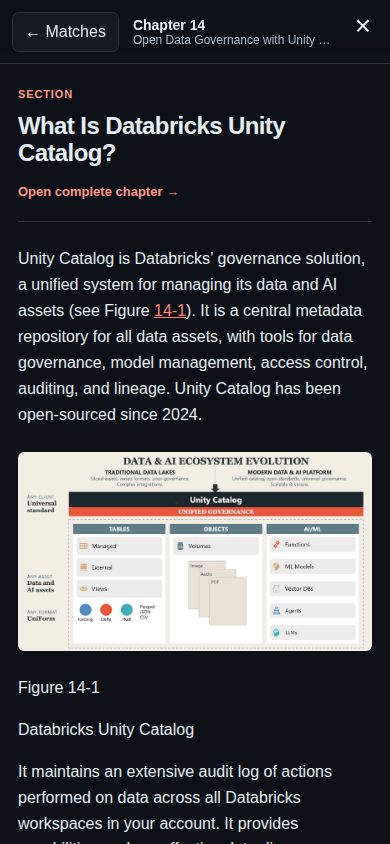
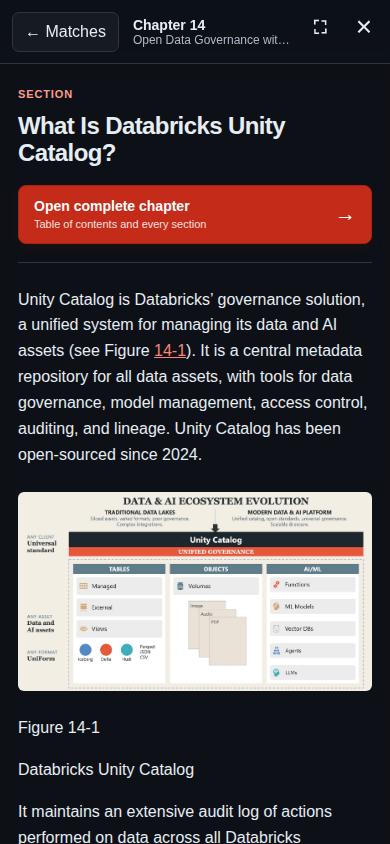
Add full screen book reading mode

diff --git a/integration/addon-host.js b/integration/addon-host.js
@@ -2,6 +2,7 @@
   const script=document.currentScript;
   const base=new URL(".",script.src);
   const manifestUrl=new URL("addons/manifest.json",base);
+  const officialIndexUrl=new URL("resources/links.json",base);
   const icon='<svg viewBox="0 0 24 24" aria-hidden="true"><path d="M4 5.5A2.5 2.5 0 0 1 6.5 3H11v17H6.5A2.5 2.5 0 0 0 4 22V5.5Z"/><path d="M20 5.5A2.5 2.5 0 0 0 17.5 3H13v17h4.5A2.5 2.5 0 0 1 20 22V5.5Z"/></svg>';
   const aliases={
     "unified governance":["unity catalog","data governance"],"open governance":["unity catalog","data governance"],
@@ -12,7 +13,7 @@
     "cloud services integrations":["security first","production grade databricks apps"]
   };
   const stop=new Set(["about","architecture","business","cloud","data","databricks","details","every","external","platform","services","system","what","with"]);
-  let current=null,currentFrame=null,currentAddonId=null,opener=null,contextAddon=null,book=null,currentContext=null,currentMatches=[];
+  let current=null,currentFrame=null,currentAddonId=null,opener=null,contextAddon=null,book=null,officialIndex=null,currentContext=null,currentMatches=[],inertSiblings=[];
   const savedStateKey="databricks-addon-state-v1";
 
   const normalize=value=>(value||"").toLowerCase().replace(/&/g," and ").replace(/[^a-z0-9]+/g," ").trim();
@@ -34,20 +35,33 @@
     const seen=new Set();return matches.filter(match=>{const key=match.chapter+"#"+match.section;if(seen.has(key))return false;seen.add(key);return true}).slice(0,3);
   }
 
+  function officialResources(context){
+    if(!officialIndex||!context)return [];
+    const names=[context.name,...(aliases[normalize(context.name)]||[])].map(normalize);let record=null;
+    for(const [name,value] of Object.entries(officialIndex)){if(names.includes(normalize(name))){record=value;break}}
+    if(!record)return [];
+    const resources=[];const add=(label,title,value)=>{if(!value)return;let url;try{url=new URL(value,location.origin)}catch{return}const host=url.hostname.replace(/^www\./,"");if(!["databricks.com","docs.databricks.com","youtube.com","youtu.be"].some(domain=>host===domain||host.endsWith("."+domain)))return;resources.push({label,title,url:url.href})};
+    if(record.doc)add("Documentation","Official documentation",/^https?:/.test(record.doc)?record.doc:"https://docs.databricks.com/aws/en/"+record.doc.replace(/^\/+/,""));
+    add("Product","Official product page",record.site);if(record.videos&&record.videos[0])add("Video",record.videos[0].t,"https://www.youtube.com/watch?v="+encodeURIComponent(record.videos[0].id));
+    return resources.slice(0,3);
+  }
+
   function close(){
-    if(!current)return;current.remove();current=null;currentFrame=null;currentAddonId=null;sessionStorage.removeItem(savedStateKey);document.body.classList.remove("addon-open");
+    if(!current)return;if(current.classList.contains("is-fullscreen"))setFullscreen(false);current.remove();current=null;currentFrame=null;currentAddonId=null;sessionStorage.removeItem(savedStateKey);document.body.classList.remove("addon-open");
     const params=new URLSearchParams(location.search);for(const key of ["addon","chapter","section","bookView"])params.delete(key);history.replaceState(history.state,"",location.pathname+(params.size?"?"+params.toString():"")+location.hash);if(opener)opener.focus();
   }
 
   function sendContext(){if(currentFrame&&currentContext)currentFrame.contentWindow.postMessage({type:"databricks-addon-context",context:currentContext,matches:currentMatches},location.origin)}
+  function setFullscreen(enabled){if(!current)return;current.classList.toggle("is-fullscreen",enabled);if(enabled){current.dataset.previousRole=current.getAttribute("role")||"complementary";current.setAttribute("role","dialog");current.setAttribute("aria-modal","true");inertSiblings=[...document.body.children].filter(node=>node!==current&&!node.inert);for(const node of inertSiblings)node.inert=true}else{current.setAttribute("role",current.dataset.previousRole||"complementary");current.removeAttribute("aria-modal");for(const node of inertSiblings)node.inert=false;inertSiblings=[]}const button=current.querySelector(".addon-fullscreen");if(!button)return;button.setAttribute("aria-pressed",String(enabled));button.setAttribute("aria-label",enabled?"Exit full screen reading mode":"Enter full screen reading mode");button.title=button.getAttribute("aria-label");button.querySelector(".addon-fullscreen-label").textContent=enabled?"Exit full screen":"Full screen";button.querySelector(".addon-fullscreen-icon").textContent=enabled?"⊡":"⛶"}
+  function handleEscape(){if(current&&current.classList.contains("is-fullscreen")){setFullscreen(false);return}close()}
   function open(addon,button,match,view="section"){
     close();const entry=sameOrigin(addon.entry);if(!entry)return;const params=new URLSearchParams(location.search);params.set("addon",addon.id);
     if(match){params.set("chapter",match.chapter);entry.searchParams.set("chapter",match.chapter);params.set("bookView",view);entry.searchParams.set("view",view);if(view==="section"){params.set("section",match.section);entry.searchParams.set("section",match.section)}else params.delete("section")}
     history.replaceState(history.state,"",location.pathname+"?"+params.toString()+location.hash);entry.searchParams.set("embedded","1");entry.searchParams.set("theme",document.body.classList.contains("theme-dark")?"dark":"light");
     const shell=document.createElement("aside");shell.className="addon-shell";shell.setAttribute("role","complementary");shell.setAttribute("aria-label",addon.title);
-    const head=document.createElement("header");const title=document.createElement("strong");title.textContent="From the book";const closeButton=document.createElement("button");closeButton.type="button";closeButton.className="addon-close";closeButton.setAttribute("aria-label","Close "+addon.title);closeButton.textContent="×";closeButton.addEventListener("click",close);
-    const frame=document.createElement("iframe");frame.src=entry.href;frame.title=addon.title;frame.loading="eager";frame.addEventListener("load",()=>{frame.contentWindow.addEventListener("keydown",event=>{if(event.key==="Escape")close()});sendContext()});
-    head.append(title,closeButton);shell.append(head,frame);document.body.append(shell);current=shell;currentFrame=frame;currentAddonId=addon.id;opener=button;sessionStorage.setItem(savedStateKey,JSON.stringify({addon:addon.id,view:match?view:"matches",chapter:match?match.chapter:"",section:match&&view==="section"?match.section:""}));document.body.classList.add("addon-open");closeButton.focus();
+    const head=document.createElement("header");const title=document.createElement("strong");title.textContent="From the book";const fullscreenButton=document.createElement("button");fullscreenButton.type="button";fullscreenButton.className="addon-fullscreen";fullscreenButton.setAttribute("aria-pressed","false");fullscreenButton.setAttribute("aria-label","Enter full screen reading mode");fullscreenButton.title="Enter full screen reading mode";fullscreenButton.innerHTML='<span class="addon-fullscreen-icon" aria-hidden="true">⛶</span><span class="addon-fullscreen-label">Full screen</span>';fullscreenButton.addEventListener("click",()=>setFullscreen(!shell.classList.contains("is-fullscreen")));const closeButton=document.createElement("button");closeButton.type="button";closeButton.className="addon-close";closeButton.setAttribute("aria-label","Close "+addon.title);closeButton.textContent="×";closeButton.addEventListener("click",close);
+    const frame=document.createElement("iframe");frame.src=entry.href;frame.title=addon.title;frame.loading="eager";frame.addEventListener("load",sendContext);
+    head.append(title,fullscreenButton,closeButton);shell.append(head,frame);document.body.append(shell);current=shell;currentFrame=frame;currentAddonId=addon.id;opener=button;sessionStorage.setItem(savedStateKey,JSON.stringify({addon:addon.id,view:match?view:"matches",chapter:match?match.chapter:"",section:match&&view==="section"?match.section:""}));document.body.classList.add("addon-open");closeButton.focus();
   }
 
   function renderContext(){
@@ -61,22 +75,23 @@
     for(const [index,match] of currentMatches.entries()){
       if(index===1){const more=document.createElement("p");more.className="addon-context-more";more.textContent="More book matches";card.append(more)}
       const item=document.createElement("article");const headingId="addon-match-"+index+"-"+match.section.replace(/[^a-z0-9_-]/gi,"-");item.className="addon-context-link"+(index?" compact":"");item.setAttribute("aria-labelledby",headingId);item.innerHTML='<h5 id="'+headingId+'"></h5><span></span>'+(index?'':'<p></p>')+'<div class="addon-context-actions"></div>';item.querySelector("h5").textContent=match.sectionTitle;item.querySelector("span").textContent=match.chapterTitle;if(!index)item.querySelector("p").textContent=match.excerpt;
-      const actions=item.querySelector(".addon-context-actions");const sectionButton=document.createElement("button");sectionButton.type="button";sectionButton.textContent="Read section";sectionButton.setAttribute("aria-label","Read section: "+match.sectionTitle);sectionButton.addEventListener("click",event=>open(contextAddon,event.currentTarget,match,"section"));const chapterButton=document.createElement("button");chapterButton.type="button";chapterButton.className="secondary";chapterButton.textContent="Open chapter";chapterButton.setAttribute("aria-label","Open chapter: "+match.chapterTitle);chapterButton.addEventListener("click",event=>open(contextAddon,event.currentTarget,match,"chapter"));actions.append(sectionButton,chapterButton);card.append(item);
+      const actions=item.querySelector(".addon-context-actions");const sectionButton=document.createElement("button");sectionButton.type="button";sectionButton.textContent="Read section";sectionButton.setAttribute("aria-label","Read section: "+match.sectionTitle);sectionButton.addEventListener("click",event=>open(contextAddon,event.currentTarget,match,"section"));const chapterButton=document.createElement("button");chapterButton.type="button";chapterButton.className="secondary";chapterButton.textContent="Open complete chapter";chapterButton.setAttribute("aria-label","Open complete chapter: "+match.chapterTitle);chapterButton.addEventListener("click",event=>open(contextAddon,event.currentTarget,match,"chapter"));actions.append(sectionButton,chapterButton);card.append(item);
     }
+    const official=officialResources(context);if(official.length){const section=document.createElement("section");section.className="addon-official";const officialHeading=document.createElement("h5");officialHeading.textContent="Official Databricks resources";section.append(officialHeading);const links=document.createElement("div");for(const resource of official){const link=document.createElement("a");link.href=resource.url;link.target="_blank";link.rel="noopener";link.innerHTML="<span></span><strong></strong><b aria-hidden=\"true\">↗</b>";link.querySelector("span").textContent=resource.label;link.querySelector("strong").textContent=resource.title;links.append(link)}section.append(links);card.append(section)}
     body.prepend(card);sendContext();
   }
 
   function install(manifest){
     if(!manifest||manifest.schemaVersion!==1||!Array.isArray(manifest.addons))return;const slot=document.createElement("div");slot.className="addon-slot";const tools=document.querySelector("header.top .htools");(tools||document.body).append(slot);
     for(const addon of manifest.addons){if(!addon||!/^[-a-z0-9]+$/.test(addon.id||"")||!addon.label||!addon.title||!sameOrigin(addon.entry))continue;const button=document.createElement("button");button.type="button";button.className="hbtn addon-launcher";button.title=addon.title;button.innerHTML=icon+"<span></span>";button.querySelector("span").textContent=addon.label;button.addEventListener("click",()=>open(addon,button));slot.append(button);
-      if(addon.contextIndex&&sameOrigin(addon.contextIndex)){contextAddon=addon;fetch(sameOrigin(addon.contextIndex),{cache:"no-store"}).then(response=>response.json()).then(data=>{book=data;renderContext()}).catch(()=>{})}
+      if(addon.contextIndex&&sameOrigin(addon.contextIndex)){contextAddon=addon;Promise.all([fetch(sameOrigin(addon.contextIndex),{cache:"no-store"}).then(response=>response.json()),fetch(officialIndexUrl,{cache:"no-store"}).then(response=>response.ok?response.json():null).catch(()=>null)]).then(([bookData,officialData])=>{book=bookData;officialIndex=officialData;renderContext()}).catch(()=>{})}
       const locationParams=new URLSearchParams(location.search);let saved={};try{saved=JSON.parse(sessionStorage.getItem(savedStateKey)||"{}")||{}}catch{}const shouldRestore=locationParams.get("addon")===addon.id||saved.addon===addon.id;if(shouldRestore){const chapter=locationParams.get("chapter")||saved.chapter,section=locationParams.get("section")||saved.section,view=locationParams.get("bookView")||saved.view||(section?"section":"chapter");open(addon,button,chapter?{chapter,section}:null,view)}
     }
     if(!slot.childElementCount)slot.remove();
   }
 
-  document.addEventListener("keydown",event=>{if(event.key==="Escape"&&current)close()});
-  addEventListener("message",event=>{if(!currentFrame||event.origin!==location.origin||event.source!==currentFrame.contentWindow||!event.data)return;if(event.data.type==="databricks-addon-close")close();if(event.data.type==="databricks-addon-state"&&["matches","section","chapter"].includes(event.data.view)){const params=new URLSearchParams(location.search);for(const key of ["chapter","section","bookView"])params.delete(key);if(event.data.view!=="matches"&&event.data.chapter){params.set("chapter",event.data.chapter);params.set("bookView",event.data.view);if(event.data.view==="section"&&event.data.section)params.set("section",event.data.section)}sessionStorage.setItem(savedStateKey,JSON.stringify({addon:currentAddonId,view:event.data.view,chapter:event.data.chapter||"",section:event.data.section||""}));history.replaceState(history.state,"",location.pathname+"?"+params.toString()+location.hash)}});
+  document.addEventListener("keydown",event=>{if(event.key==="Escape"&&current)handleEscape()});
+  addEventListener("message",event=>{if(!currentFrame||event.origin!==location.origin||event.source!==currentFrame.contentWindow||!event.data)return;if(event.data.type==="databricks-addon-close")close();if(event.data.type==="databricks-addon-escape")handleEscape();if(event.data.type==="databricks-addon-state"&&["matches","section","chapter"].includes(event.data.view)){const params=new URLSearchParams(location.search);for(const key of ["chapter","section","bookView"])params.delete(key);if(event.data.view!=="matches"&&event.data.chapter){params.set("chapter",event.data.chapter);params.set("bookView",event.data.view);if(event.data.view==="section"&&event.data.section)params.set("section",event.data.section)}sessionStorage.setItem(savedStateKey,JSON.stringify({addon:currentAddonId,view:event.data.view,chapter:event.data.chapter||"",section:event.data.section||""}));history.replaceState(history.state,"",location.pathname+"?"+params.toString()+location.hash)}});
   let timer;new MutationObserver(()=>{clearTimeout(timer);timer=setTimeout(renderContext,0);if(currentFrame)currentFrame.contentWindow.postMessage({type:"databricks-addon-theme",theme:document.body.classList.contains("theme-dark")?"dark":"light"},location.origin)}).observe(document.body,{attributes:true,attributeFilter:["class"],childList:true,subtree:true});
   fetch(manifestUrl,{cache:"no-store"}).then(response=>response.ok&&/json/i.test(response.headers.get("content-type")||"")?response.json():null).then(install).catch(()=>{});
 })();

diff --git a/addon/reader/reader.css b/addon/reader/reader.css
@@ -1,3 +1,5 @@
 :root{font-family:Inter,-apple-system,BlinkMacSystemFont,"Segoe UI",sans-serif;color:#1b1f24;background:#fff;--accent:#c52b19;--line:#d8dee4;--muted:#59636e;--panel:#f6f8fa;--code:#f3f4f6}
 *{box-sizing:border-box}html{scroll-behavior:smooth;scroll-padding-top:82px}body{margin:0;min-height:100vh;background:inherit;color:inherit}button{font:inherit}.sr-only{position:absolute;width:1px;height:1px;padding:0;margin:-1px;overflow:hidden;clip:rect(0,0,0,0);white-space:nowrap;border:0}.reader-header{position:sticky;top:0;z-index:10;display:flex;align-items:center;gap:14px;min-height:64px;padding:10px 18px;border-bottom:1px solid var(--line);background:color-mix(in srgb,#fff 94%,transparent);backdrop-filter:blur(12px)}.reader-title{display:flex;min-width:0;flex-direction:column}.reader-title strong{font-size:14px}.reader-title span{overflow:hidden;color:var(--muted);font-size:12px;text-overflow:ellipsis;white-space:nowrap}.back-button{flex:none;min-height:40px;padding:7px 12px;border:1px solid var(--line);border-radius:7px;background:var(--panel);color:inherit;cursor:pointer}.back-button:focus-visible,.match-card:focus-visible,.chapter-link:focus-visible,.chapter-toc a:focus-visible{outline:2px solid var(--accent);outline-offset:2px}.content{width:min(720px,100%);margin:0 auto;padding:28px 34px 72px;line-height:1.62}.empty-state{padding:80px 24px;text-align:center;color:var(--muted)}.empty-state h1{color:inherit;font-size:1.35rem}.context-head{margin-bottom:22px}.context-head h1{margin:.2em 0;font-size:1.65rem}.context-head p{margin:.35rem 0 0;color:var(--muted)}.matches{display:grid;gap:12px}.match-card{display:block;width:100%;padding:16px;border:1px solid var(--line);border-radius:10px;background:var(--panel);color:inherit;text-align:left;cursor:pointer}.match-card:hover,.match-card:focus{border-color:var(--accent);box-shadow:0 0 0 2px color-mix(in srgb,var(--accent) 16%,transparent)}.match-card strong,.match-card span,.match-card small{display:block}.match-card span{margin-top:3px;color:var(--accent);font-weight:600}.match-card small{margin-top:7px;color:var(--muted);line-height:1.45}.reading-view{max-width:680px;margin:0 auto}.eyebrow{display:block;margin-bottom:8px;color:var(--accent);font-size:11px;font-weight:800;letter-spacing:.08em;text-transform:uppercase}.passage-head{margin-bottom:24px;padding-bottom:18px;border-bottom:1px solid var(--line)}.passage-head h1,.chapter-intro h1{margin:0;font-size:clamp(1.55rem,3vw,1.9rem);line-height:1.14;letter-spacing:-.025em}.chapter-link{margin-top:14px;padding:0;border:0;background:transparent;color:var(--accent);font-size:13px;font-weight:700;cursor:pointer}.chapter-link:hover{text-decoration:underline}.chapter-intro{margin-bottom:20px}.chapter-toc{margin:0 0 30px;padding:16px;border:1px solid var(--line);border-radius:10px;background:var(--panel)}.chapter-toc strong{display:block;margin-bottom:8px}.chapter-toc div{display:grid;grid-template-columns:repeat(2,minmax(0,1fr));gap:5px 16px}.chapter-toc a{min-height:28px;padding:4px 0;color:inherit;font-size:13px;line-height:1.4;text-decoration:none}.chapter-toc a:hover{color:var(--accent);text-decoration:underline}.passage h1{font-size:1.8rem;line-height:1.2}.passage h2{scroll-margin-top:82px;margin-top:2em;padding-bottom:.3em;border-bottom:1px solid var(--line);font-size:1.45rem;line-height:1.25}.passage h3{scroll-margin-top:82px;margin-top:1.7em;font-size:1.15rem}.passage p,.passage li{font-size:1rem}.passage a{color:#c52b19}.passage img{display:block;max-width:100%;height:auto;margin:24px auto;border-radius:6px}.passage pre{overflow:auto;padding:16px;border-radius:8px;background:var(--code)}.passage code{font-family:"SFMono-Regular",Consolas,monospace}.passage table{display:block;max-width:100%;overflow:auto;border-collapse:collapse}.passage th,.passage td{padding:8px 10px;border:1px solid var(--line);vertical-align:top}.passage blockquote{margin-left:0;padding-left:18px;border-left:4px solid var(--line);color:var(--muted)}.reader-license{margin-top:40px;padding-top:16px;border-top:1px solid var(--line);color:var(--muted);font-size:11px}.reader-license a{color:inherit}
 @media (prefers-color-scheme:dark){:root:not(.theme-light){color:#e6edf3;background:#0d1117;--accent:#ff9a8d;--line:#30363d;--muted:#aeb8c5;--panel:#161b22;--code:#161b22}:root:not(.theme-light) .reader-header{background:color-mix(in srgb,#0d1117 94%,transparent)}:root:not(.theme-light) .passage a{color:#ff8273}}html.theme-light{color:#1b1f24;background:#fff;--accent:#c52b19;--line:#d8dee4;--muted:#59636e;--panel:#f6f8fa;--code:#f3f4f6}html.theme-light .reader-header{background:color-mix(in srgb,#fff 94%,transparent)}html.theme-light .passage a{color:#c52b19}html.theme-dark{color:#e6edf3;background:#0d1117;--accent:#ff9a8d;--line:#30363d;--muted:#aeb8c5;--panel:#161b22;--code:#161b22}html.theme-dark .reader-header{background:color-mix(in srgb,#0d1117 94%,transparent)}html.theme-dark .passage a{color:#ff8273}@media(max-width:900px){.reader-header{padding:9px 12px}.content{padding:22px 18px 60px}.reader-title span{max-width:52vw}.passage-head h1,.chapter-intro h1{font-size:1.5rem}.chapter-toc div{grid-template-columns:1fr}}@media print{.reader-header{display:none}.content{max-width:none;padding:0}.chapter-toc{break-inside:avoid}}
+.reader-header{padding-right:174px}.chapter-link{display:flex;width:100%;min-height:58px;align-items:center;justify-content:space-between;gap:18px;margin-top:18px;padding:11px 15px;border:1px solid #a92314;border-radius:8px;background:#c52b19;color:#fff;text-align:left;box-shadow:0 4px 12px #64180f24;cursor:pointer}.chapter-link span,.chapter-link strong,.chapter-link small{display:block}.chapter-link strong{font-size:14px;line-height:1.3}.chapter-link small{margin-top:2px;color:#fff;font-size:11px;font-weight:500;line-height:1.35;opacity:.86}.chapter-link b{font-size:21px}.chapter-link:hover{background:#a92314;box-shadow:0 6px 16px #64180f38}@media(max-width:900px){.reader-header{padding-right:174px}}@media(max-width:500px){.reader-header{padding-right:96px}}
+.chapter-toc a.current{color:var(--accent);font-weight:800;text-decoration:underline;text-decoration-thickness:2px;text-underline-offset:3px}

diff --git a/integration/addon-host.css b/integration/addon-host.css
@@ -1,1 +1,3 @@
 .addon-slot{display:flex;align-items:center}.addon-launcher svg{width:16px;height:16px;fill:none;stroke:currentColor;stroke-width:1.7;stroke-linejoin:round}.addon-context-card{margin:0 0 18px;padding:0 0 14px;border-bottom:1px solid var(--line,#d8dee4)}.addon-context-card>h4{margin:0 0 10px;font-size:14px}.addon-context-more{margin:12px 0 6px;color:var(--muted,#59636e);font-size:12px;letter-spacing:.05em;text-transform:uppercase}.addon-context-link{display:block;width:100%;margin:8px 0;padding:13px;border:1px solid #e3a9a2;border-left:4px solid var(--brand,#ff3621);border-radius:8px;background:#fff7f5;color:#1b1f24;text-align:left}.addon-context-link:hover,.addon-context-link:focus-within{border-color:var(--brand,#ff3621);box-shadow:0 0 0 2px color-mix(in srgb,var(--brand,#ff3621) 12%,transparent)}.addon-context-link h5,.addon-context-link span{display:block}.addon-context-link h5{margin:0;color:#20252b;font-size:13px;line-height:1.35}.addon-context-link span{margin-top:4px;color:#59636e;font-size:12px;line-height:1.35}.addon-context-link p{display:-webkit-box;overflow:hidden;margin:9px 0 0;color:#30363d;font-size:12px;line-height:1.5;-webkit-box-orient:vertical;-webkit-line-clamp:3}.addon-context-link.compact{padding:10px 12px;border-left-width:3px;background:transparent}.addon-context-link.compact .addon-context-actions{margin-top:8px}.addon-context-actions{display:flex;gap:8px;margin-top:11px}.addon-context-actions button{min-height:36px;padding:7px 11px;border:1px solid #c52b19;border-radius:6px;background:#c52b19;color:#fff;font-size:12px;font-weight:700;cursor:pointer}.addon-context-actions button.secondary{background:transparent;color:#9e2114}.addon-context-actions button:hover,.addon-context-actions button:focus-visible{filter:brightness(.92);outline:2px solid #8b1e13;outline-offset:2px}.addon-context-link.compact .addon-context-actions button{min-height:32px;padding:5px 9px}.addon-close{width:44px;height:44px;border:0;border-radius:7px;background:transparent;color:inherit;font-size:28px;line-height:1;cursor:pointer}.addon-close:hover{background:#8882}.addon-close:focus-visible{outline:2px solid #c52b19;outline-offset:2px}body.theme-dark .addon-context-link{border-color:#74433f;border-left-color:#ff5c47;background:#202731;color:#f0f4f8}body.theme-dark .addon-context-link h5{color:#f7f9fb}body.theme-dark .addon-context-link span{color:#b9c3cf}body.theme-dark .addon-context-link p{color:#e1e7ee}body.theme-dark .addon-context-link.compact{background:#171d25}body.theme-dark .addon-context-actions button.secondary{color:#ff9a8d;border-color:#ff8273}body.theme-dark .addon-context-actions button:focus-visible,body.theme-dark .addon-close:focus-visible{outline-color:#ff9a8d}.addon-shell{position:fixed;z-index:10020;top:0;right:0;bottom:0;width:min(680px,calc(100vw - 240px));min-width:560px;background:#fff;color:#1b1f24;box-shadow:-16px 0 48px #0005}.addon-shell>header{position:absolute;z-index:3;top:4px;right:5px;display:flex;width:44px;height:44px;align-items:center;justify-content:center;background:transparent;color:inherit}.addon-shell>header>strong{display:none}.addon-shell iframe{width:100%;height:100%;border:0;background:#fff}body.theme-dark .addon-shell{background:#0d1117;color:#e6edf3}body.theme-dark .addon-shell iframe{background:#0d1117}.addon-open{overflow:hidden}@media(max-width:900px){.addon-shell{width:100vw;min-width:0}.addon-context-actions{flex-wrap:wrap}}@media(max-width:500px){.addon-context-actions button{min-height:44px}.addon-context-link.compact .addon-context-actions button{min-height:40px}}@media print{.addon-slot,.addon-context-card,.addon-shell{display:none!important}}
+.addon-shell{transition:width .22s ease}.addon-shell.is-fullscreen{width:100vw;min-width:0}.addon-shell>header{top:5px;right:6px;width:auto;gap:4px}.addon-fullscreen,.addon-close{height:40px;border:0;border-radius:7px;background:transparent;color:inherit;cursor:pointer}.addon-fullscreen{display:flex;align-items:center;gap:6px;padding:0 10px;font-size:12px;font-weight:700}.addon-fullscreen-icon{font-size:18px;line-height:1}.addon-close{width:40px}.addon-fullscreen:hover,.addon-close:hover{background:#8882}.addon-fullscreen:focus-visible,.addon-close:focus-visible{outline:2px solid #c52b19;outline-offset:2px}body.theme-dark .addon-fullscreen:focus-visible,body.theme-dark .addon-close:focus-visible{outline-color:#ff9a8d}@media(max-width:500px){.addon-fullscreen{width:40px;padding:0;justify-content:center}.addon-fullscreen-label{position:absolute;width:1px;height:1px;overflow:hidden;clip:rect(0,0,0,0)}}@media(prefers-reduced-motion:reduce){.addon-shell{transition:none}}
+.addon-official{margin-top:14px;padding-top:12px;border-top:1px solid var(--line,#d8dee4)}.addon-official>h5{margin:0 0 8px;color:inherit;font-size:12px}.addon-official>div{display:grid;grid-template-columns:repeat(3,minmax(0,1fr));gap:7px}.addon-official a{display:grid;grid-template-columns:1fr auto;gap:2px 6px;min-height:54px;padding:8px 9px;border:1px solid var(--line,#d8dee4);border-radius:7px;background:transparent;color:inherit;text-decoration:none}.addon-official a:hover,.addon-official a:focus-visible{border-color:var(--brand,#ff3621);outline:2px solid color-mix(in srgb,var(--brand,#ff3621) 35%,transparent);outline-offset:1px}.addon-official a span{grid-column:1;color:var(--muted,#59636e);font-size:10px;font-weight:700;letter-spacing:.04em;text-transform:uppercase}.addon-official a strong{grid-column:1;font-size:11px;line-height:1.3}.addon-official a b{grid-column:2;grid-row:1/3;align-self:center;font-size:13px}body.theme-dark .addon-official a{border-color:#3a4654;background:#171d25}body.theme-dark .addon-official a span{color:#b9c3cf}@media(max-width:560px){.addon-official>div{grid-template-columns:1fr}.addon-official a{min-height:48px}}

diff --git a/addon/reader/reader.js b/addon/reader/reader.js
@@ -30,8 +30,8 @@
   function openPassage(chapterSlug,sectionId,options={historyMode:"replace",canGoBack:false}){
     const found=findSection(chapterSlug,sectionId);if(!found)return;
     const {chapter,section}=found;back.hidden=false;setHeader(chapterNumber(chapter),chapter.title.replace(/^\d+\.\s*/,""));document.title=section.title+" | "+chapter.title;
-    content.innerHTML='<article class="reading-view"><header class="passage-head"><span class="eyebrow">Section</span><h1></h1><button class="chapter-link" type="button">Open complete chapter →</button></header><div class="passage"></div></article>'+license();
-    content.querySelector(".passage-head h1").textContent=section.title||chapter.title;content.querySelector(".passage").innerHTML=section.bodyHtml||section.html;content.querySelector(".chapter-link").addEventListener("click",()=>openChapter(chapter.slug));
+    content.innerHTML='<article class="reading-view"><header class="passage-head"><span class="eyebrow">Section</span><h1></h1><button class="chapter-link" type="button" aria-label="Open complete chapter"><span><strong>Open complete chapter</strong><small>Table of contents and every section</small></span><b aria-hidden="true">→</b></button></header><div class="passage"></div></article>'+license();
+    content.querySelector(".passage-head h1").textContent=section.title||chapter.title;content.querySelector(".passage").innerHTML=section.bodyHtml||section.html;content.querySelector(".chapter-link").addEventListener("click",()=>openChapter(chapter.slug,section.id));
     setLocation({bookNav:true,view:"section",chapter:chapter.slug,section:section.id,canGoBack:options.canGoBack},options.historyMode);announce("Section opened: "+section.title);content.scrollIntoView();content.focus({preventScroll:true});
   }
 
@@ -42,7 +42,7 @@
     content.innerHTML='<article class="reading-view chapter-reading"><header class="chapter-intro"><span class="eyebrow">Complete chapter</span><h1></h1></header><nav class="chapter-toc" aria-label="Chapter sections"><strong>In this chapter</strong><div></div></nav><div class="passage chapter-view"></div></article>'+license();
     content.querySelector(".chapter-intro h1").textContent=chapter.title.replace(/^\d+\.\s*/,"");
     const toc=content.querySelector(".chapter-toc div");
-    for(const section of sections.filter(section=>section.depth===2)){const link=document.createElement("a");link.href="#"+section.id;link.textContent=section.title;toc.append(link)}
+    for(const section of sections.filter(section=>section.depth===2)){const link=document.createElement("a");link.href="#"+section.id;link.textContent=section.title;if(section.id===selectedSection){link.className="current";link.setAttribute("aria-current","location")}toc.append(link)}
     content.querySelector(".passage").innerHTML=(root?root.bodyHtml:"")+sections.map(section=>section.html).join("");
     setLocation({bookNav:true,view:"chapter",chapter:chapter.slug,canGoBack:options.canGoBack},options.historyMode);announce("Complete chapter opened: "+chapter.title);
     requestAnimationFrame(()=>{const target=selectedSection&&document.getElementById(selectedSection);if(target)target.scrollIntoView({block:"start"});else content.scrollIntoView();content.focus({preventScroll:true})});
@@ -51,7 +51,7 @@
   back.addEventListener("click",()=>{const state=history.state;if(state&&state.bookNav&&state.canGoBack)history.back();else renderMatches(currentContext,currentMatches)});
   addEventListener("popstate",event=>{const state=event.state;if(!state||!state.bookNav)return;if(state.view==="matches")renderMatches(currentContext,currentMatches,null);else if(state.view==="section")openPassage(state.chapter,state.section,{historyMode:null,canGoBack:state.canGoBack});else if(state.view==="chapter")openChapter(state.chapter,null,{historyMode:null,canGoBack:state.canGoBack})});
   addEventListener("message",event=>{if(event.origin!==location.origin||!event.data)return;if(event.data.type==="databricks-addon-theme")setTheme(event.data.theme);if(event.data.type==="databricks-addon-context"){currentContext=event.data.context;currentMatches=event.data.matches||[];if(!query().get("chapter"))renderMatches(currentContext,currentMatches)}});
-  document.addEventListener("keydown",event=>{if(event.key==="Escape"&&query().get("embedded")==="1")parent.postMessage({type:"databricks-addon-close"},location.origin)});
+  document.addEventListener("keydown",event=>{if(event.key==="Escape"&&query().get("embedded")==="1"){event.preventDefault();parent.postMessage({type:"databricks-addon-escape"},location.origin)}});
   fetch("book.json",{cache:"no-store"}).then(response=>response.json()).then(data=>{book=data;const params=query();if(params.get("chapter")){if(params.get("view")==="chapter")openChapter(params.get("chapter"),null,{historyMode:"replace",canGoBack:false});else openPassage(params.get("chapter"),params.get("section"),{historyMode:"replace",canGoBack:false})}else setLocation({bookNav:true,view:"matches",canGoBack:false},"replace")}).catch(()=>{content.innerHTML='<section class="empty-state"><h1>Book content unavailable</h1></section>'});
   setTheme(query().get("theme"));
 })();

diff --git a/integration/smoke_addon.js b/integration/smoke_addon.js
@@ -19,6 +19,9 @@ function check(name,value,detail){checks.push(!!value);console.log((value?'PASS 
     check('the selected architecture box gets mapped to subsections',labels.length>0&&labels.join(' ').includes('Unity Catalog')&&!labels[0].startsWith('14. Open Data Governance'),labels.join(' | '));
     check('the concise book preview is readable without hover',await page.locator('.addon-context-link p').first().isVisible());
     check('section and chapter actions are both available',await page.locator('.addon-context-link').first().getByRole('button').count()===2);
+    const officialLinks=page.locator('.addon-official a');check('official docs and video remain visible beside the book',await officialLinks.count()>=2&&await page.locator('.addon-official').getByText('Documentation',{exact:true}).count()===1&&await page.locator('.addon-official').getByText('Video',{exact:true}).count()===1);
+    check('promoted references use only official Databricks sources',await officialLinks.evaluateAll(links=>links.every(link=>{const host=new URL(link.href).hostname.replace(/^www\./,'');return ['databricks.com','docs.databricks.com','youtube.com','youtu.be'].some(domain=>host===domain||host.endsWith('.'+domain))})));
+    check('the full native documentation and video sections are retained',(await page.locator('#d-body').innerText()).includes('LEARN MORE')&&(await page.locator('#d-body').innerText()).includes('DATABRICKS YOUTUBE CHANNEL'));
     await page.evaluate(()=>document.body.classList.add('theme-dark'));
     const contrast=await page.locator('.addon-context-link').first().evaluate(card=>{
       const rgb=value=>(value.match(/[\d.]+/g)||[]).slice(0,3).map(Number);
@@ -37,10 +40,15 @@ function check(name,value,detail){checks.push(!!value);console.log((value?'PASS 
     check('only the selected passage opens',await frame.locator('.chapters').count()===0&&await frame.locator('.passage').count()===1);
     check('the section heading appears once',await frame.getByRole('heading',{name:'What Is Databricks Unity Catalog?',exact:true}).count()===1);
     check('the section reader stays compact',await frame.locator('.passage-head h1').evaluate(node=>parseFloat(getComputedStyle(node).fontSize))<=36);
+    const chapterCta=frame.locator('.chapter-link');check('open complete chapter is a prominent full-width action',await chapterCta.evaluate(node=>{const style=getComputedStyle(node);return node.getBoundingClientRect().height>=50&&node.getBoundingClientRect().width>400&&style.backgroundColor!=='rgba(0, 0, 0, 0)'}));
     check('passage state reaches the parent URL',/[?&]chapter=/.test(page.url())&&/[?&]section=/.test(page.url()));
     await frame.locator('html.theme-dark').waitFor();check('passage follows board theme',await frame.locator('html').getAttribute('class')==='theme-dark');
-    await frame.locator('#content').press('Escape');check('Escape closes the add-on',await page.locator('.addon-shell').count()===0);
-    await page.locator('.addon-context-link').first().getByRole('button',{name:'Open chapter'}).click();
+    const fullscreen=page.locator('.addon-fullscreen');await fullscreen.click();await page.waitForFunction(()=>{const shell=document.querySelector('.addon-shell.is-fullscreen');return shell&&shell.getBoundingClientRect().width>=innerWidth-1});check('full screen reading mode fills the viewport',await fullscreen.getAttribute('aria-pressed')==='true');
+    check('full screen reading mode makes the background inert',await page.locator('body > :not(.addon-shell)').evaluateAll(nodes=>nodes.every(node=>node.inert))&&await page.locator('.addon-shell').getAttribute('aria-modal')==='true');
+    await frame.locator('#content').press('Escape');await page.locator('.addon-shell.is-fullscreen').waitFor({state:'detached'});check('Escape exits full screen before closing',await page.locator('.addon-shell').count()===1);
+    await chapterCta.click();await frame.locator('.chapter-view').waitFor();check('opening the complete chapter preserves the selected section',await frame.locator('.chapter-toc a[aria-current="location"]').count()===1);
+    await frame.locator('#content').press('Escape');await page.locator('.addon-shell').waitFor({state:'detached'});check('a second Escape closes the add-on',true);
+    await page.locator('.addon-context-link').first().getByRole('button',{name:'Open complete chapter'}).click();
     const chapterFrame=page.frameLocator('.addon-shell iframe');await chapterFrame.locator('.chapter-view').waitFor();
     check('open chapter renders the complete chapter',await chapterFrame.locator('.chapter-view h2').count()>1);
     check('the chapter provides section navigation',await chapterFrame.locator('.chapter-toc a').count()>3);

diff --git a/README.md b/README.md
@@ -18,6 +18,8 @@ The upstream contribution consists only of `integration/addon-host.js`, `integra
 
 ![The most relevant Unity Catalog section opened beside the architecture](docs/book-addon-section.png)
 
+![The Unity Catalog section in full-screen reading mode](docs/book-addon-fullscreen.png)
+
 ![The complete Unity Catalog chapter opened with a table of contents](docs/book-addon-search.png)
 
 ![The relevant Unity Catalog section in the full-screen mobile reader](docs/book-addon-mobile.png)
